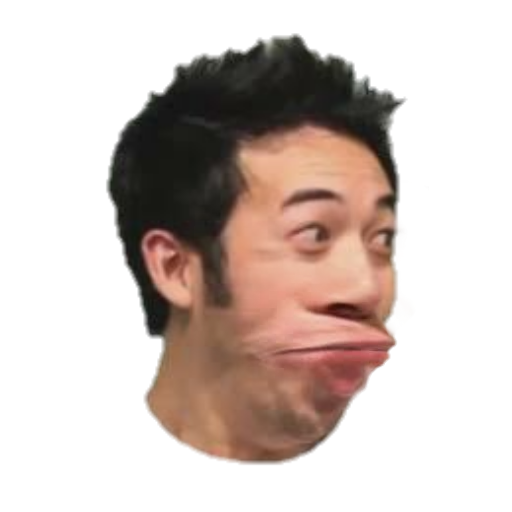
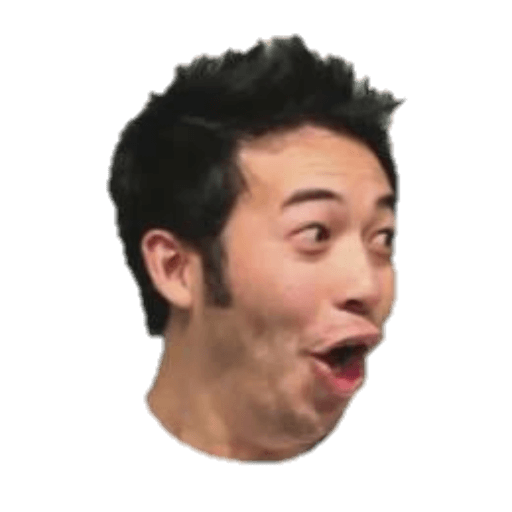
Add files via upload
+ Minimalkan ukuran gambar png biar page load cepat
+ OnClick Sekarang berubah jadi Mousedown | mouseup | touchstart | touchend

Changed region(s): [[0.4375, 0.5625, 0.7812, 0.7812], [0.625, 0.4375, 0.6562, 0.4688], [0.5, 0.4688, 0.5312, 0.5]]

diff --git a/index.html b/index.html
@@ -2,6 +2,11 @@
 	<head>
 <title>pog click</title>
 		<!----FAVICON---->
+			<link rel="apple-touch-icon" sizes="180x180" href="/apple-touch-icon.png">
+<link rel="icon" type="image/png" sizes="32x32" href="/favicon-32x32.png">
+<link rel="icon" type="image/png" sizes="16x16" href="/favicon-16x16.png">
+<link rel="manifest" href="/site.webmanifest">
+<meta name="msapplication-TileColor" content="#da532c">
 		<link rel="icon" href="/favicon.ico">
 	<!---tab color--->
 <meta name="theme-color" content="#8e2">
@@ -12,7 +17,9 @@
 </head>
 
 <!--content-->
-<body onclick="gambar()" onload="load();">
+	
+	
+<body onmousedown="click_pog();" onmouseup="reset();"  ontouchstart="click_pog();" ontouchend="reset();" onclick="angka_count();"  onload="load();">
 
 <div class="centered-top">
 	<h1 class="pog-title">POGGERS
@@ -20,12 +27,12 @@
 	</h1>
 </div>
 <div class="pog-img">
-        <img src="1.png" id="pog_image"/>
+        <img src="2.png" id="pog_image"/>
 </div>
 
 <!--javascript-->
 <script language="javascript">
-    function gambar() {
+    function angka_count() {
     	       var angka= 0;       
    var pog = new Audio('pog.mp3');
   pog.play();
@@ -36,21 +43,20 @@
             localStorage.setItem("angka",angka);             
             document.getElementById("clicked").innerHTML = angka;
             
-            var poggers = document.getElementById('pog_image');
-            if (poggers.src.match("1.png")) {
-                poggers.src = "2.png";
-            }
-            else {
-                poggers.src = "1.png";
-            }
-        }        
+         }
+            
+            
+            function click_pog() {
+        var pog_click = document.getElementById('pog_image');
+  pog_click.setAttribute("src", "1.png");
+}
+        
+        function reset() {
+  var pog_reset = document.getElementById("pog_image");
+  pog_reset.setAttribute("src", "2.png");
+}
 
-
-
-
-
-
-  function load()
+        function load()
            {
            if(localStorage.getItem("counter")!=null)
                  {
@@ -58,9 +64,5 @@
                      document.getElementById("counterValue").innerHTML = counter;
                  }
            }
-    </script>
-    
-    
-    
-    
-    
+           
+          </script>

diff --git a/style.css b/style.css
@@ -4,6 +4,9 @@
 	src: local('impactreg'), url('./impactreg.woff') format('woff'), url('./impactreg.ttf') format('truetype');
 }
 * {
+	user-select:none;
+	border:none;
+	outline:none;
 	line-height:5px;
 	color:#fff;
   -webkit-text-stroke-width: 2px;
@@ -23,8 +26,14 @@ body {
 .pog-img {
 	position:fixed;
 	bottom:-5%;
-	left:-32px;
+	left:2px;
 	z-index:0;
+	}
+.pog-img-click {
+	image:url('1.png');
+	}
+.pog-img-click:hover {
+	image:url('2.png');
 	}
 img {
 	width:350px;
@@ -42,6 +51,7 @@ img {
 	text-align:center;
 	padding-top:1em;
 	}
+
 	
 	/*desktop*/
 @media (orientation:landscape){
